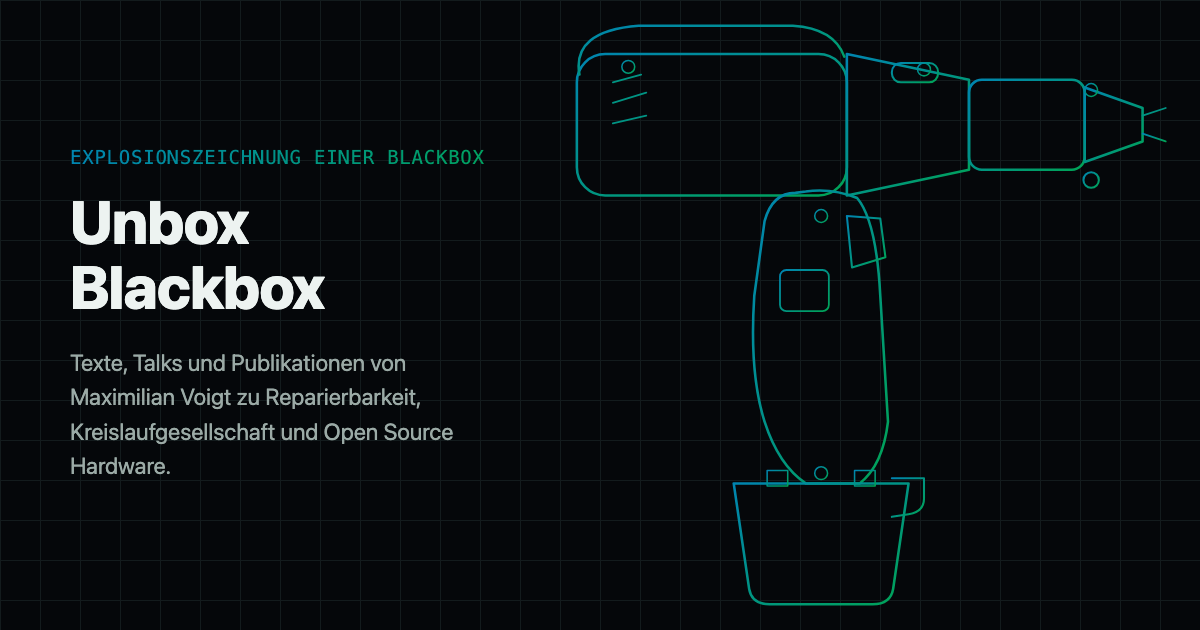
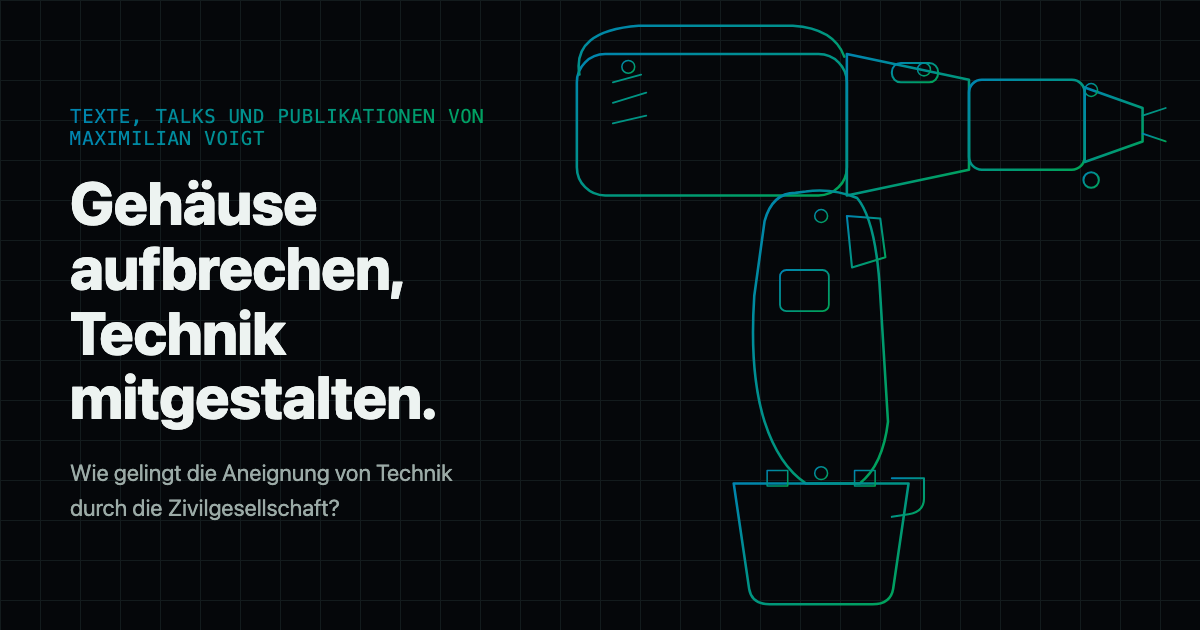
changed social card, added article

Changed region(s): [[0.0617, 0.1508, 0.4008, 0.8444]]

diff --git a/scripts/assets-gen/og-image.html b/scripts/assets-gen/og-image.html
@@ -57,9 +57,9 @@
 <body>
 <div class="wrap">
   <div class="copy">
-    <p class="kicker">Explosionszeichnung einer Blackbox</p>
-    <h1 class="title">Unbox<br>Blackbox</h1>
-    <p class="lead">Texte, Talks und Publikationen von Maximilian Voigt zu Reparierbarkeit, Kreislaufgesellschaft und Open Source Hardware.</p>
+    <p class="kicker">Texte, Talks und Publikationen von Maximilian Voigt</p>
+    <h1 class="title">Gehäuse aufbrechen,<br>Technik mitgestalten.</h1>
+    <p class="lead">Wie gelingt die Aneignung von Technik durch die Zivilgesellschaft?</p>
   </div>
   <div class="stage">
     <svg viewBox="226 228 504 490" xmlns="http://www.w3.org/2000/svg">
